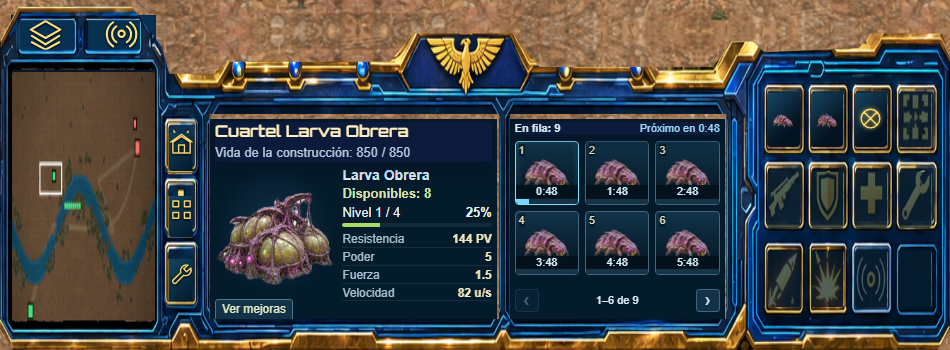
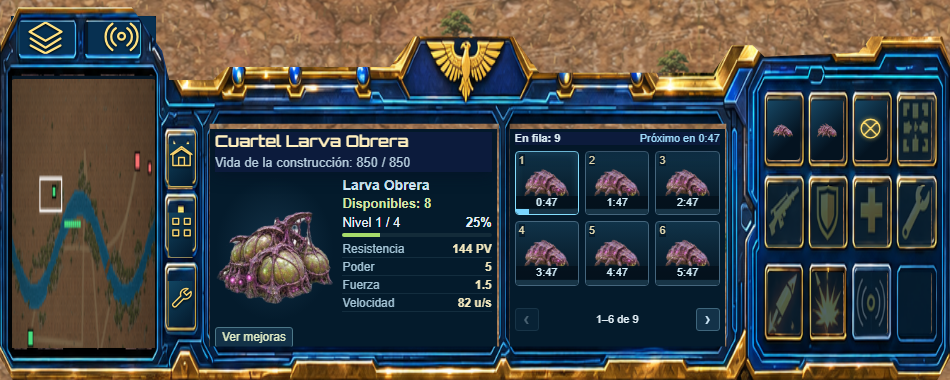
fix(land): fit queue cards at intermediate screen widths

diff --git a/tests/land26.spec.ts b/tests/land26.spec.ts
@@ -9,7 +9,7 @@ test('Land: cuartel Larva Obrera con ficha y cola en cuadrados separados',async(
  const target=await page.evaluate(async({base,mobile})=>{const {addBuilding,addUnit,train}=await import(base+'src/features/games/land.ts'),{GROUND}=await import(base+'src/features/games/landMap.ts');const d=window as Debug,g=d.__landGame(),cam=d.__landCam();g.ais.forEach(a=>a.t=Infinity);g.units=[];g.nodes=[];g.terrain.cells.fill(GROUND);g.sides[0].stone=g.sides[0].gem=10000;const b=addBuilding(g,0,'workerBarracks',1900,1400);b.built=1;b.hp=b.maxHp;for(let i=0;i<8;i++)addUnit(g,0,'worker',2400+i*90,1800);for(let i=0;i<9;i++)train(g,b.id,'worker');b.qT=12;cam.x=b.x-cam.w*(mobile?.35:.65)/cam.z;cam.y=b.y-220/cam.z;return {id:b.id,x:cam.w*(mobile?.35:.65),y:200};},{base,mobile:info.project.name==='mobile'});const stage=(await page.locator('.land-stage>canvas').boundingBox())!;await page.mouse.click(stage.x+target.x,stage.y+target.y);
  const panel=page.getByRole('region',{name:'Información de selección'}),queue=page.getByRole('status',{name:'Cola de entrenamiento'});await expect(panel.locator('h3')).toHaveText('Cuartel Larva Obrera');await expect(panel).toContainText('Disponibles: 8');for(const label of ['Resistencia','Fuerza','Poder'])await expect(panel.locator('dt',{hasText:label})).toBeVisible();await expect(queue).toContainText('En fila: 9');await expect(queue.locator('li')).toHaveCount(6);const bars=queue.getByRole('progressbar');await expect(bars).toHaveCount(6);expect(await bars.first().getAttribute('value').then(Number)).toBeGreaterThan(12);expect(await bars.nth(1).getAttribute('value')).toBe('0');await expect(bars.first()).toHaveAttribute('max','60');
  const geometry=await panel.evaluate(el=>{const sheet=el.querySelector('.land-barracks-sheet')!.getBoundingClientRect(),queue=el.querySelector('.land-training-cards')!.getBoundingClientRect(),image=el.querySelector('.land-barracks-art')!.getBoundingClientRect(),cards=[...el.querySelectorAll('.land-training-cards li')].map(e=>{const r=e.getBoundingClientRect();return {w:r.width,h:r.height};});return {separate:sheet.right<=queue.left,queueFits:[...el.querySelectorAll('.land-training-cards li')].every(e=>e.getBoundingClientRect().bottom<=el.querySelector('.land-training-cards nav').getBoundingClientRect().top-3),overflow:el.scrollHeight-el.clientHeight,image:image.height,cards};});expect(geometry.separate).toBe(true);expect(geometry.queueFits).toBe(true);expect(geometry.overflow).toBeLessThanOrEqual(2);expect(geometry.image).toBeGreaterThanOrEqual(80);for(const c of geometry.cards)expect(Math.abs(c.w-c.h)).toBeLessThan(2);await page.locator('.land-hud').screenshot({path:info.outputPath('cuartel-larva-cola.png')});
- if(info.project.name==='desktop'){for(const width of [1102,1920]){await page.setViewportSize({width,height:1000});const fits=await panel.evaluate(el=>{const sheet=el.querySelector('.land-barracks-sheet')!.getBoundingClientRect(),queue=el.querySelector('.land-training-cards')!.getBoundingClientRect(),nav=el.querySelector('.land-training-cards nav')!.getBoundingClientRect();return el.scrollHeight<=el.clientHeight+2&&sheet.right<=queue.left&&[...el.querySelectorAll('.land-training-cards li')].every(e=>{const r=e.getBoundingClientRect();return Math.abs(r.width-r.height)<2&&r.bottom<=nav.top-3;});});expect(fits).toBe(true);}await page.setViewportSize({width:1280,height:720});}
+ if(info.project.name==='desktop'){for(const width of [1102,1440,1500,1920]){await page.setViewportSize({width,height:1000});const fits=await panel.evaluate(el=>{const sheet=el.querySelector('.land-barracks-sheet')!.getBoundingClientRect(),queue=el.querySelector('.land-training-cards')!.getBoundingClientRect(),nav=el.querySelector('.land-training-cards nav')!.getBoundingClientRect();return el.scrollHeight<=el.clientHeight+2&&sheet.right<=queue.left&&[...el.querySelectorAll('.land-training-cards li')].every(e=>{const r=e.getBoundingClientRect();return Math.abs(r.width-r.height)<2&&r.bottom<=nav.top-3;});});expect(fits).toBe(true);}await page.setViewportSize({width:1280,height:720});}
  await queue.getByRole('button',{name:'Cola siguiente',exact:true}).click();await expect(queue.locator('li')).toHaveCount(3);await expect(queue.locator('li').first()).toHaveAttribute('aria-label',/Puesto 7/);await queue.getByRole('button',{name:'Cola anterior',exact:true}).click();await panel.getByRole('button',{name:'Ver mejoras',exact:true}).click();await expect(panel.locator('.land-evolution-previews figure')).toHaveCount(4);expect(await panel.evaluate(el=>el.scrollHeight-el.clientHeight)).toBeLessThanOrEqual(2);await panel.getByRole('button',{name:'Ver características',exact:true}).click();
  await page.evaluate(id=>{const b=(window as Debug).__landGame().buildings.find(b=>b.id===id)!;b.qT=59;},target.id);await expect(queue).toContainText('En fila: 8',{timeout:5000});await expect(panel).toContainText('Disponibles: 9');await expect(queue.getByRole('progressbar').first()).toHaveAttribute('max','60');expect(await queue.getByRole('progressbar').first().getAttribute('value').then(Number)).toBeLessThan(5);expect(errors).toEqual([]);
 });

diff --git a/src/features/games/landBarracks.css b/src/features/games/landBarracks.css
@@ -46,7 +46,7 @@
 .land.land-v9 .land-training-cards nav button:disabled{opacity:.35}
 .land.land-v9 .land-queue-empty{margin:auto 0;color:#91afbf;font:13px/1.5 Arial,sans-serif}
 @media(min-width:1101px){
- .land.land-v9 .land-hud.land-hud-native:has(.land-barracks-panel){height:max(350px,calc((100vw - 330px)*.24))!important}
+ .land.land-v9 .land-hud.land-hud-native:has(.land-barracks-panel){height:max(380px,calc((100vw - 330px)*.24))!important}
  .land.land-v9 .land-hud-native .land-selection-roster:has(~.land-barracks-panel){display:none!important}
  .land.land-v9 .land-hud-native .land-selection-inspector.land-barracks-panel{position:absolute;left:22.1%;top:34%;width:54.2%;height:58.5%;z-index:2;display:grid!important;grid-template-columns:55.7% minmax(0,1fr);gap:2.5%;padding:0!important;background:transparent;overflow:hidden}
  .land.land-v9 .land-barracks-sheet{background:#041b2c;padding:3px 5px}

diff --git a/docs/land-correcciones-26.md b/docs/land-correcciones-26.md
@@ -8,4 +8,4 @@ Se muestran seis casillas por página, con navegación para recorrer toda la col
 
 El HUD gana altura solamente al seleccionar un cuartel, y el marco omite el antiguo recuadro de retrato que cruzaba la cola. El componente está aislado de las reglas anteriores de las fichas de soldados. Se aplica a todos los tipos de cuartel y civilizaciones, incluidas las larvas obreras.
 
-Validación: ficha de Larva Obrera con ocho personajes y nueve encargos; barras de 60 s, paginación, salida de una unidad y reinicio de la siguiente barra; separación y casillas cuadradas en escritorio, móvil, 1102 px y 1920 px. Se comprueban también los seis cuarteles humanos y las cuatro evoluciones. Captura: `land26-cuartel-larva.png`.
+Validación: ficha de Larva Obrera con ocho personajes y nueve encargos; barras de 60 s, paginación, salida de una unidad y reinicio de la siguiente barra; separación y casillas cuadradas en escritorio, móvil, 1102, 1440, 1500 y 1920 px. Se comprueban también los seis cuarteles humanos y las cuatro evoluciones. Captura: `land26-cuartel-larva.png`.
